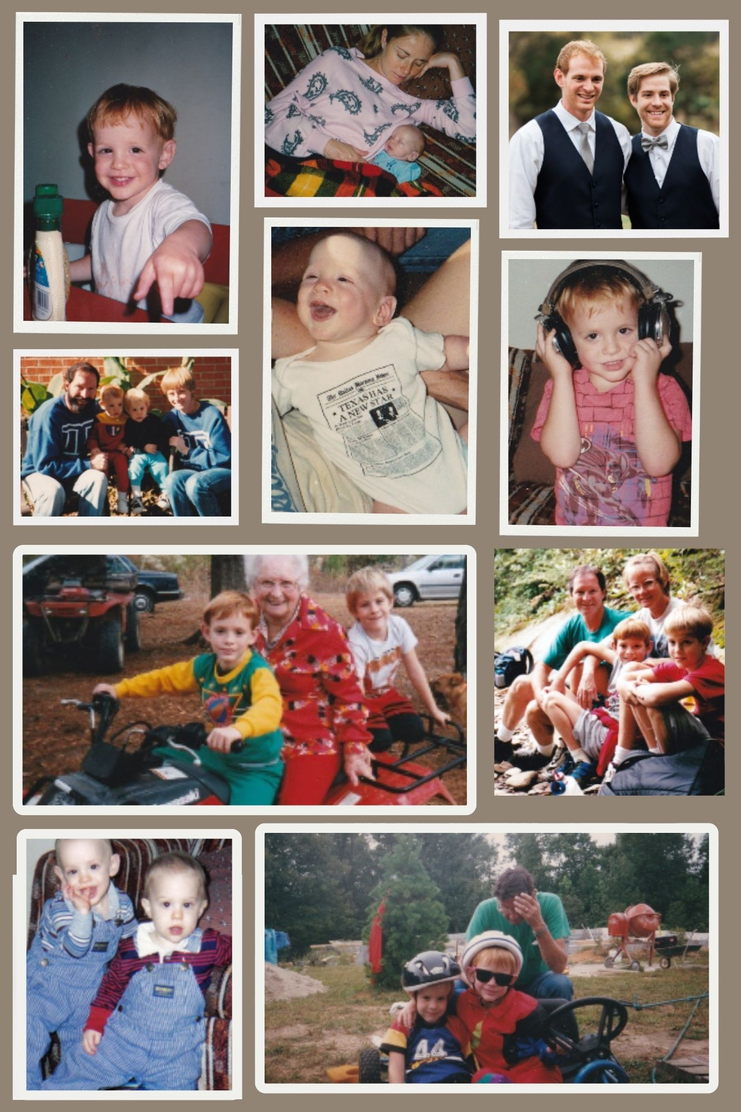
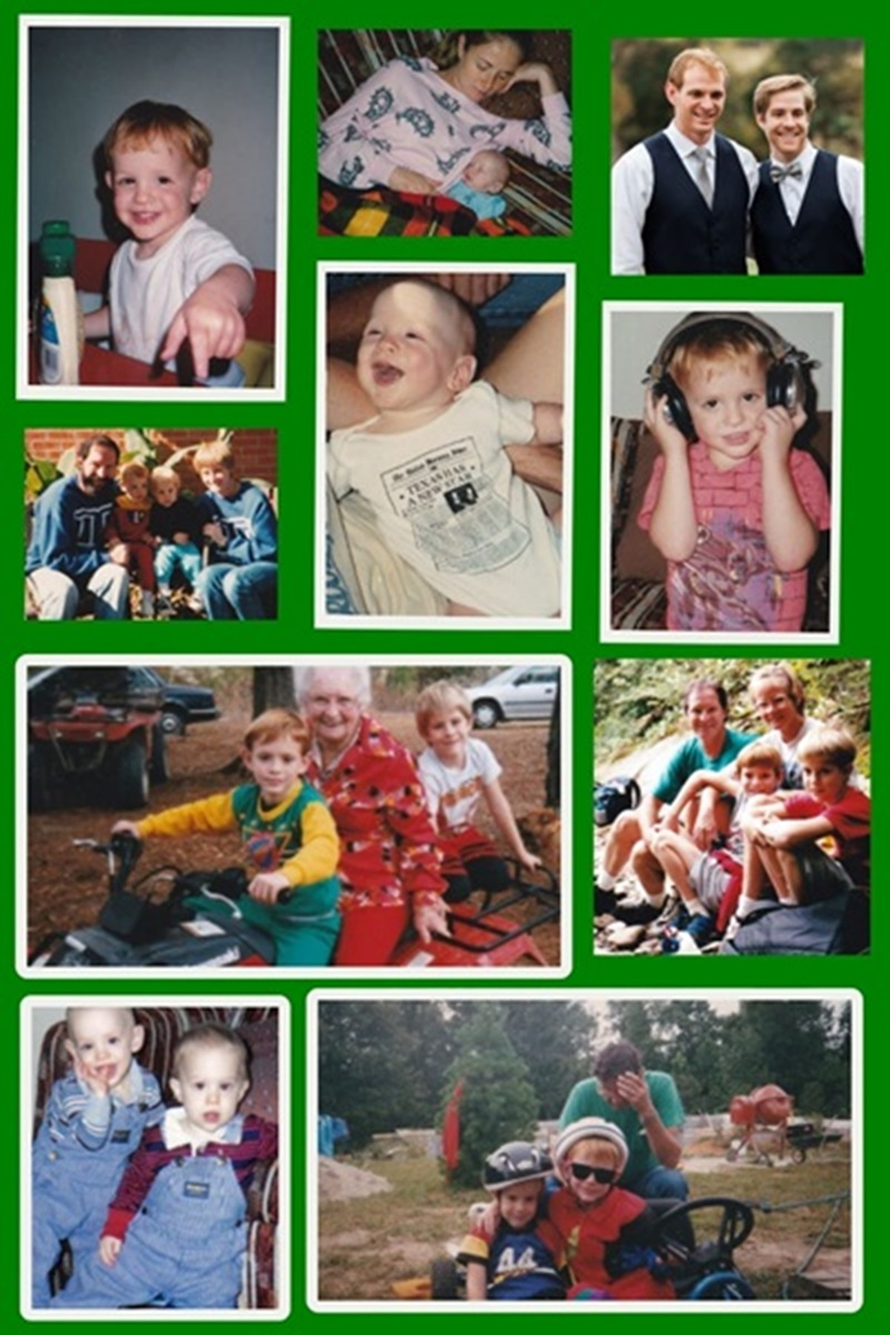
improved collage

diff --git a/members.htm b/members.htm
@@ -2,7 +2,7 @@
 <html class="staticrypt-html">
     <head>
         <meta charset="utf-8" />
-        <title>Members Only</title>
+        <title>Members Only Page</title>
         <meta name="viewport" content="width=device-width, initial-scale=1" />
 
         <!-- do not cache this page -->
@@ -80,7 +80,7 @@
             .staticrypt-content {
                 height: 100%;
                 margin-bottom: 1em;
-                background: #76B852;
+                background: beige;
                 font-family: "Arial", sans-serif;
                 -webkit-font-smoothing: antialiased;
                 -moz-osx-font-smoothing: grayscale;
@@ -154,7 +154,7 @@
             <div class="staticrypt-page">
                 <div class="staticrypt-form">
                     <div class="staticrypt-instructions">
-                        <p class="staticrypt-title">Members Only"</p>
+                        <p class="staticrypt-title">Members Only</p>
                         <p></p>
                     </div>
 
@@ -770,7 +770,7 @@ exports.init = init;
         ;
             const templateError = "INVALID PASSWORD",
                 isRememberEnabled = true,
[2 lines of base64/hex data omitted]
 
             // you can edit these values to customize some of the behavior of StatiCrypt
             const templateConfig = {

diff --git a/photos.htm b/photos.htm
@@ -1,0 +1,17 @@
+<!doctype html> 
+<html lang="en">  
+<head>
+   <link rel="stylesheet" type="text/css" href="style.css">
+   <meta name="viewport" content="width=device-width, initial-scale=1.0">
+   <meta name="description" content="Photos">
+   <meta charset="UTF-8">
+   <title>Photos</title>
+   
+   <div class="collage-container">
+   <img src="images/bigcollage.jpg" alt="collage">
+   </div>
+   
+   </style>
+   
+   
+  </head>

diff --git a/style.css b/style.css
@@ -126,7 +126,14 @@ a:hover {
   height: auto; /* Maintain aspect ratio */
 }
  
-
+.collage-container img {
+  aspect-ratio: 1.77/1;
+  width: 1920px;
+  margin-left: auto;
+  margin-right: auto;
+  max-width: 100%; /* Prevent images from exceeding container width */
+  height: auto; /* Maintain aspect ratio */
+}
 
     
 

diff --git a/members1.htm b/members1.htm
@@ -35,7 +35,7 @@
 <a class= "menu" href="calendar.htm">CALENDAR</a>
 <a class= "menu" href="https://temg.tennessee.edu/
 " target="_blank">LOG VOLUNTEER HOURS</a>
-<a class= "menu" href="images/collage.jpg">PHOTOS</a>
+<a class= "menu" href="photos.htm">PHOTOS</a>
 
 </div>
 

diff --git a/index.htm b/index.htm
@@ -19,7 +19,7 @@
 
 
 <div class=ribbon>
-=
+
  
  
   <div class="dropdown">
